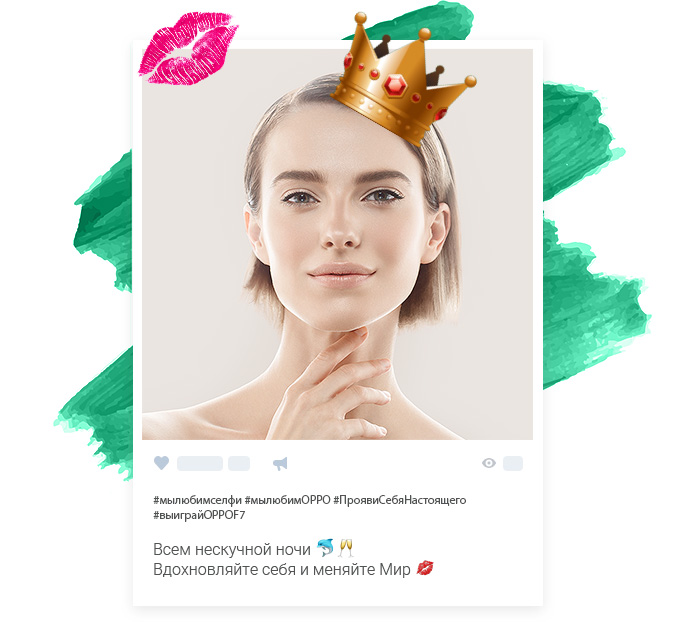
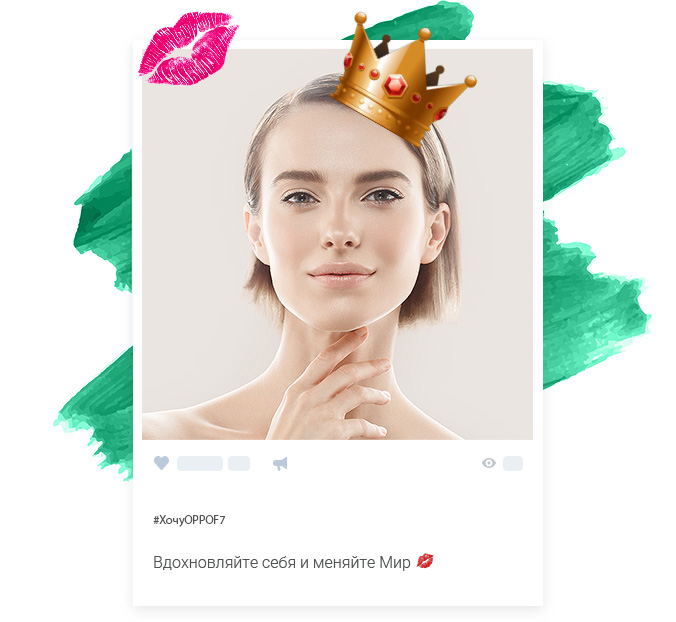
fix+auth

Changed region(s): [[0.2175, 0.7942, 0.6834, 0.9469]]

diff --git a/index.html b/index.html
@@ -117,12 +117,14 @@
                                 <img src="images/contest-menu.png" alt="" />
                                 <span>Придумай креативный текст</span>
                                 <img src="images/contest-menu.png" alt="" />
-                                <span>Поделись ВКонтакте</span>
+                                <span>Поделиться</span>
+                                <img src="images/contest-menu.png" alt="" />
+                                <span>Спасибо!</span>
                             </div>
                             <div class="contest-theme">
                                 <div class="contest-theme-text"><strong>Выбери</strong> то, что ты любишь</div>
                                 <div class="contest-theme-list">
-                                    <div class="contest-theme-item" data-id="01" data-border="images/contest-photo-border-01.png" data-placeholder="Плейсхолдер для рубрики Спорт">
+                                    <div class="contest-theme-item" data-id="01" data-border="images/contest-photo-border-01.png" data-placeholder="Не представляешь себя без спорта? Расскажи о своих достижениях: сколько мячей за сезон забиваешь, какие упражнения делаешь в спортзале, какие высоты планируешь покорить и как новый OPPO F7 поможет тебе в этом!">
                                         <div class="contest-theme-item-icon"><svg version="1.1" id="Слой_1" xmlns="http://www.w3.org/2000/svg" xmlns:xlink="http://www.w3.org/1999/xlink" x="0px" y="0px" viewBox="0 0 48 48" style="enable-background:new 0 0 48 48;" xml:space="preserve"><style type="text/css">.st0{fill:none;stroke:#000000;stroke-width:2;stroke-miterlimit:10;}</style><g><circle class="st0" cx="24" cy="5" r="4"/><path class="st0" d="M42,15.7c-0.2-1-1.1-1.7-2.1-1.7H8c-1.2,0-2.2,1.1-2,2.3c0.2,1,1.1,1.7,2.1,1.7H18v26.9c0,1,0.7,1.9,1.7,2.1 c1.3,0.2,2.3-0.8,2.3-2V34c0-1.1,0.9-2,2-2c1.1,0,2,0.9,2,2v10.9c0,1,0.7,1.9,1.7,2.1c1.3,0.2,2.3-0.8,2.3-2V18h10 C41.2,18,42.2,16.9,42,15.7z"/><path class="st0" d="M39.5,17.9c0.7,1.2,2,2.1,3.5,2.1c2.2,0,4-1.8,4-4c0-2.2-1.8-4-4-4c-1.5,0-2.8,0.8-3.5,2.1"/><path class="st0" d="M8.5,14.1C7.8,12.8,6.5,12,5,12c-2.2,0-4,1.8-4,4c0,2.2,1.8,4,4,4c1.5,0,2.8-0.8,3.5-2.1"/><line class="st0" x1="5" y1="12" x2="5" y2="0"/><line class="st0" x1="43" y1="12" x2="43" y2="0"/></g></svg></div>
                                         <div class="contest-theme-item-title">Спорт</div>
                                         <div class="contest-theme-item-plus"></div>
@@ -132,57 +134,57 @@
                                         <div class="contest-theme-item-title">Путешествия</div>
                                         <div class="contest-theme-item-plus"></div>
                                     </div>
-                                    <div class="contest-theme-item" data-id="03" data-border="images/contest-photo-border-03.png" data-placeholder="Плейсхолдер для рубрики Мода">
+                                    <div class="contest-theme-item" data-id="03" data-border="images/contest-photo-border-03.png" data-placeholder="Следишь за последними трендами сезона и без труда можешь подобрать идеальный наряд? Твой уникальный имидж постоянно восхищает окружающих? Поделись своими секретами с друзьями и расскажи, как новый OPPO F7 поможет тебе подчеркнуть свой стиль.">
                                         <div class="contest-theme-item-icon"><svg xmlns="http://www.w3.org/2000/svg" viewBox="0 0 64 64" aria-labelledby="title" aria-describedby="desc" role="img" xmlns:xlink="http://www.w3.org/1999/xlink"><path data-name="layer2" fill="none" stroke="#202020" stroke-miterlimit="10" stroke-width="2" d="M34 30.5L26 53l-10-4 7.3-19.5m8.9 6.4L38 53l10-4-8-20" stroke-linejoin="round" stroke-linecap="round"></path> <path data-name="layer1" d="M25.4 18.3S17.7 11 4 11C-.5 23.2 4 35 4 35s14.9-2.5 22-7m12.6-9.7S46.3 11 60 11c4.5 12.2 0 24 0 24s-14.9-2.5-22-7" fill="none" stroke="#202020" stroke-miterlimit="10" stroke-width="2" stroke-linejoin="round" stroke-linecap="round"></path> <circle data-name="layer1" cx="32" cy="22.8" r="8" fill="none" stroke="#202020" stroke-miterlimit="10" stroke-width="2" stroke-linejoin="round" stroke-linecap="round"></circle></svg></div>
                                         <div class="contest-theme-item-title">Мода</div>
                                         <div class="contest-theme-item-plus"></div>
                                     </div>
-                                    <div class="contest-theme-item" data-id="04" data-border="images/contest-photo-border-04.png" data-placeholder="Плейсхолдер для рубрики Еда">
+                                    <div class="contest-theme-item" data-id="04" data-border="images/contest-photo-border-04.png" data-placeholder="Для кого-то еда — возможность утолить голод, а для кого-то — способ самовыражения. Поделись своим любимым рецептом или самым необычным блюдом и не забудь пофантазировать, как новенький OPPO F7 поможет тебе в кулинарном деле!">
                                         <div class="contest-theme-item-icon"><svg xmlns="http://www.w3.org/2000/svg" viewBox="0 0 64 64" aria-labelledby="title" aria-describedby="desc" role="img" xmlns:xlink="http://www.w3.org/1999/xlink"><circle data-name="layer2" cx="32.7" cy="33" r="19" fill="none" stroke="#202020" stroke-linecap="round" stroke-linejoin="round" stroke-width="2"></circle> <circle data-name="layer2" cx="32.7" cy="33" r="11" fill="none" stroke="#202020" stroke-linecap="round" stroke-linejoin="round" stroke-width="2"></circle> <path data-name="layer1" d="M61.7 34.2V48a2 2 0 0 1-2 2 2 2 0 0 1-2-2V34.1M6.7 12v9.5" fill="none" stroke="#202020" stroke-linecap="round" stroke-linejoin="round" stroke-width="2"></path> <path data-name="layer1" d="M61.7 34.2V12a6.3 6.3 0 0 0-6.3 6.3V31a3.2 3.2 0 0 0 3.2 3.2zm-50.5-9.5L10.5 12H2.9l-.6 12.7a3.5 3.5 0 0 0 2.4 3.5V48a2 2 0 1 0 4 0V28.1a3.5 3.5 0 0 0 2.5-3.4z" fill="none" stroke="#202020" stroke-linecap="round" stroke-linejoin="round" stroke-width="2"></path></svg></div>
                                         <div class="contest-theme-item-title">Еда</div>
                                         <div class="contest-theme-item-plus"></div>
                                     </div>
-                                    <div class="contest-theme-item" data-id="05" data-border="images/contest-photo-border-05.png" data-placeholder="Плейсхолдер для рубрики Искусство">
+                                    <div class="contest-theme-item" data-id="05" data-border="images/contest-photo-border-05.png" data-placeholder="Если искусство для тебя не просто поход на выставку суперпопулярного художника, значит тебе есть что рассказать! Напиши о прекрасном и о том, как OPPO F7 поможет приблизиться к нему!">
                                         <div class="contest-theme-item-icon"><svg xmlns="http://www.w3.org/2000/svg" viewBox="0 0 64 64" aria-labelledby="title" aria-describedby="desc" role="img" xmlns:xlink="http://www.w3.org/1999/xlink"> <path data-name="layer1" fill="none" stroke="#202020" stroke-miterlimit="10" stroke-width="2" d="M2 14h60v48H2z" stroke-linejoin="round" stroke-linecap="round"></path> <path data-name="layer2" fill="none" stroke="#202020" stroke-miterlimit="10" stroke-width="2" d="M10 22h44v32H10z" stroke-linejoin="round" stroke-linecap="round"></path> <path data-name="layer1" fill="none" stroke="#202020" stroke-miterlimit="10" stroke-width="2" d="M16 14L32 2l16 12" stroke-linejoin="round" stroke-linecap="round"></path></svg></div>
                                         <div class="contest-theme-item-title">Искусство</div>
                                         <div class="contest-theme-item-plus"></div>
                                     </div>
-                                    <div class="contest-theme-item" data-id="06" data-border="images/contest-photo-border-06.png" data-placeholder="Плейсхолдер для рубрики Музыка">
+                                    <div class="contest-theme-item" data-id="06" data-border="images/contest-photo-border-06.png" data-placeholder="Ты разбираешься в музыке или даже создаешь её? Твой плейлист заряжен энергией и драйвом? Поделись своим увлечением с друзьями и расскажи, как новый OPPO F7 поможет ему заиграть новыми красками!">
                                         <div class="contest-theme-item-icon"><svg xmlns="http://www.w3.org/2000/svg" viewBox="0 0 64 64" aria-labelledby="title" aria-describedby="desc" role="img" xmlns:xlink="http://www.w3.org/1999/xlink"> <path data-name="layer1" d="M35 23.4A11.1 11.1 0 0 0 22 25a10 10 0 0 0-1.8 2.5c-1 1.7-2.7 4.4-6.5 4.5h-.9a12.7 12.7 0 0 0-7.1 3.5C.3 41.1.9 50.6 7.1 56.9s15.7 6.9 21.2 1.4a12.6 12.6 0 0 0 3.5-7 1.9 1.9 0 0 0 .1-.7 8.4 8.4 0 0 1 4.5-6.8A10 10 0 0 0 39 42a11.1 11.1 0 0 0 1.7-13" fill="none" stroke="#202020" stroke-miterlimit="10" stroke-width="2" stroke-linejoin="round" stroke-linecap="round"></path> <path data-name="layer2" d="M20.2 38.1l34.1-34c1.6-1.6 2.7-3 4.2-1.4l2.8 2.8c1.6 1.6.1 2.7-1.4 4.2L25.8 43.8" fill="none" stroke="#202020" stroke-miterlimit="10" stroke-width="2" stroke-linejoin="round" stroke-linecap="round"></path> <circle data-name="layer1" cx="19.9" cy="44.1" r="6" transform="rotate(-45 19.892 44.16)" fill="none" stroke="#202020" stroke-miterlimit="10" stroke-width="2" stroke-linejoin="round" stroke-linecap="round"></circle> <path data-name="layer2" fill="none" stroke="#202020" stroke-miterlimit="10" stroke-width="2" d="M59.9 4.1l-47 47" stroke-linejoin="round" stroke-linecap="round"></path> <path data-name="layer1" fill="none" stroke="#202020" stroke-miterlimit="10" stroke-width="2" d="M9.4 47.6l7 7" stroke-linejoin="round" stroke-linecap="round"></path></svg></div>
                                         <div class="contest-theme-item-title">Музыка</div>
                                         <div class="contest-theme-item-plus"></div>
                                     </div>
-                                    <div class="contest-theme-item" data-id="07" data-border="images/contest-photo-border-07.png" data-placeholder="Плейсхолдер для рубрики Бизнес</">
+                                    <div class="contest-theme-item" data-id="07" data-border="images/contest-photo-border-07.png" data-placeholder="Бизнесмен — это звучит гордо! Это человек, уверенный в себе и своих силах, способный рисковать и принимать волевые решения. Успешным может стать каждый, но для этого нужно много работать. Расскажи о своем подходе к работе и о том, как OPPO F7 поможет тебе добиться успеха!">
                                         <div class="contest-theme-item-icon"><svg version="1.1" id="Слой_1" xmlns="http://www.w3.org/2000/svg" xmlns:xlink="http://www.w3.org/1999/xlink" x="0px" y="0px" viewBox="0 0 48 48" style="enable-background:new 0 0 48 48;" xml:space="preserve"><style type="text/css">.st0{fill:none;stroke:#202020;stroke-width:2;stroke-linecap:round;stroke-linejoin:round;stroke-miterlimit:10;}</style><path class="st0" d="M16.3,12.6V9.4c0-3.4,2.7-6.1,6.1-6.1h3.1c3.4,0,6.1,2.7,6.1,6.1v3"/><path class="st0" d="M27.1,32.4H47V15.6c0-1.7-1.4-3.1-3.1-3.1H4.1c-1.7,0-3.1,1.4-3.1,3.1v16.9h19.9 M45.5,32.4v12.3H2.5V32.4"/><path class="st0" d="M20.9,29.4h6.1v6.1h-6.1V29.4z"/></svg></div>
                                         <div class="contest-theme-item-title">Бизнес</div>
                                         <div class="contest-theme-item-plus"></div>
                                     </div>
-                                    <div class="contest-theme-item" data-id="08" data-border="images/contest-photo-border-08.png" data-placeholder="Плейсхолдер для рубрики Современные технологии">
+                                    <div class="contest-theme-item" data-id="08" data-border="images/contest-photo-border-08.png" data-placeholder="Поразительно, как всего за несколько лет технологии успевают кардинально изменить жизнь. Чтобы не отстать от её безудержного темпа, желательно иметь только самые мощные и надежные гаджеты! Расскажи, какие функции OPPO F7 помогут тебе быть в курсе последних новостей из мира техники!">
                                         <div class="contest-theme-item-icon"><svg xmlns="http://www.w3.org/2000/svg" viewBox="0 0 64 64" aria-labelledby="title" aria-describedby="desc" role="img" xmlns:xlink="http://www.w3.org/1999/xlink"> <circle data-name="layer1" cx="32" cy="22" r="4" fill="none" stroke="#202020" stroke-linecap="round" stroke-linejoin="round" stroke-width="2"></circle> <path data-name="layer2" d="M22 26h-3.1a2.9 2.9 0 0 0-2.9 2.9v12.2a2.9 2.9 0 0 1-2.4 2.9h-2.7A2.9 2.9 0 0 0 8 46.9V58h8m26-32h3.1a2.9 2.9 0 0 1 2.9 2.9v12.2a2.9 2.9 0 0 0 2.4 2.9H53a2.9 2.9 0 0 1 3 2.9V58h-8m-20 0h8m6-6V19.8C42 8.9 32 2 32 2S22 8.9 22 19.8V52" fill="none" stroke="#202020" stroke-linecap="round" stroke-linejoin="round" stroke-width="2"></path> <path data-name="layer1" d="M28 62v-4a6 6 0 1 0-12 0v4zm20 0v-4a6 6 0 1 0-12 0v4z" fill="none" stroke="#202020" stroke-linecap="round" stroke-linejoin="round" stroke-width="2"></path></svg></div>
                                         <div class="contest-theme-item-title">Современные технологии</div>
                                         <div class="contest-theme-item-plus"></div>
                                     </div>
-                                    <div class="contest-theme-item" data-id="09" data-border="images/contest-photo-border-09.png" data-placeholder="Плейсхолдер для рубрики Вечеринки">
+                                    <div class="contest-theme-item" data-id="09" data-border="images/contest-photo-border-09.png" data-placeholder="Взрывной танцпол или уютный квартирник? Безудержное веселье с толпой друзей или тихий вечер вдвоем? Главное, чтобы было ярко и интересно. Опиши вечеринку своей мечты и пофантазируй, как OPPO F7 поможет тебе стать её звездой!">
                                         <div class="contest-theme-item-icon"><svg xmlns="http://www.w3.org/2000/svg" viewBox="0 0 64 64" aria-labelledby="title" aria-describedby="desc" role="img" xmlns:xlink="http://www.w3.org/1999/xlink"> <path data-name="layer2" fill="none" stroke="#202020" stroke-linecap="round" stroke-linejoin="round" stroke-width="2" d="M26.5 34v28m-10 0h20"></path> <path data-name="layer1" d="M33.5 12a11 11 0 1 1 7 11.3" fill="none" stroke="#202020" stroke-linecap="round" stroke-linejoin="round" stroke-width="2"></path> <path data-name="layer2" d="M44.1 18a18.9 18.9 0 0 0 .4-4v-2h-36v2a18.9 18.9 0 0 0 .4 4" fill="none" stroke="#202020" stroke-linecap="round" stroke-linejoin="round" stroke-width="2"></path> <path data-name="layer1" d="M8.9 18c.8 3.6 2.8 5.3 5.6 6s5 2.8 5.4 4.8 1.4 5.2 6.6 5.2c5.2 0 6.2-3.3 6.7-5.3s1.7-3.9 5.4-4.8 4.8-2.4 5.6-6z" fill="none" stroke="#202020" stroke-linecap="round" stroke-linejoin="round" stroke-width="2"></path></svg></div>
                                         <div class="contest-theme-item-title">Вечеринки</div>
                                         <div class="contest-theme-item-plus"></div>
                                     </div>
-                                    <div class="contest-theme-item" data-id="10" data-border="images/contest-photo-border-10.png" data-placeholder="Плейсхолдер для рубрики Фотография">
+                                    <div class="contest-theme-item" data-id="10" data-border="images/contest-photo-border-10.png" data-placeholder="Фотография — это удивительная возможность запечатлеть события, людей, окружающий мир. Это искусство, доступное каждому. Расскажи о том, что любишь фотографировать ты и как OPPO F7 поможет тебе стать профи в этом деле!">
                                         <div class="contest-theme-item-icon"><svg xmlns="http://www.w3.org/2000/svg" viewBox="0 0 64 64" aria-labelledby="title" aria-describedby="desc" role="img" xmlns:xlink="http://www.w3.org/1999/xlink"> <path data-name="layer2" d="M59 17H46.6L40 9H24l-6.6 8H5a3 3 0 0 0-3 3v30a3 3 0 0 0 3 3h54a3 3 0 0 0 3-3V20a3 3 0 0 0-3-3z" fill="none" stroke="#202020" stroke-miterlimit="10" stroke-width="2" stroke-linejoin="round" stroke-linecap="round"></path> <circle data-name="layer1" cx="32" cy="33" r="14" fill="none" stroke="#202020" stroke-miterlimit="10" stroke-width="2" stroke-linejoin="round" stroke-linecap="round"></circle> <circle data-name="layer1" cx="54" cy="25" r="1" fill="none" stroke="#202020" stroke-miterlimit="10" stroke-width="2" stroke-linejoin="round" stroke-linecap="round"></circle> <circle data-name="layer1" cx="32" cy="33" r="6" fill="none" stroke="#202020" stroke-miterlimit="10" stroke-width="2" stroke-linejoin="round" stroke-linecap="round"></circle></svg></div>
                                         <div class="contest-theme-item-title">Фотография</div>
                                         <div class="contest-theme-item-plus"></div>
                                     </div>
-                                    <div class="contest-theme-item" data-id="11" data-border="images/contest-photo-border-11.png" data-placeholder="Плейсхолдер для рубрики Автомобили">
+                                    <div class="contest-theme-item" data-id="11" data-border="images/contest-photo-border-11.png" data-placeholder="Автомобиль для тебя больше, чем средство передвижения? Любишь скорость и ценишь комфорт? Расскажи, чем должен отличаться топовый автомобиль и чем он похож на OPPO F7!">
                                         <div class="contest-theme-item-icon"><svg viewBox="0 0 64 64" xmlns="http://www.w3.org/2000/svg" aria-labelledby="title" aria-describedby="desc" role="img" xmlns:xlink="http://www.w3.org/1999/xlink"> <path stroke-width="2" stroke-linejoin="round" stroke-linecap="round" stroke="#202020" fill="none" d="M9.011 41H3s.023-4.814.368-8.32a37.433 37.433 0 0 1 4.369-12.12A3.908 3.908 0 0 1 10.444 19H36.27l8.856 8s10.722 1.5 13.688 1.728c3.454.271 3.176 2.894 3.176 2.894s-.364 3.917-.624 5.841S60.047 41 58.357 41H55m-12 0H21.011m24.131-14.006H4.867" data-name="layer2"></path> <circle stroke-width="2" stroke-linejoin="round" stroke-linecap="round" stroke="#202020" fill="none" r="6" cy="41" cx="15.011" data-name="layer1"></circle> <circle stroke-width="2" stroke-linejoin="round" stroke-linecap="round" stroke="#202020" fill="none" r="6" cy="40.999" cx="49.002" data-name="layer1"></circle></svg></div>
                                         <div class="contest-theme-item-title">Автомобили</div>
                                         <div class="contest-theme-item-plus"></div>
                                     </div>
-                                    <div class="contest-theme-item" data-id="12" data-border="images/contest-photo-border-12.png" data-placeholder="Плейсхолдер для рубрики Животные">
+                                    <div class="contest-theme-item" data-id="12" data-border="images/contest-photo-border-12.png" data-placeholder="Питомцы радуют нас и делают жизнь яркой и разнообразной. Они поддерживают нас в трудные минуты и понимают без слов. Поделись с друзьями своей историей о своих питомцах и расскажи, как OPPO F7 поможет тебе общаться с ними!">
                                         <div class="contest-theme-item-icon"><svg xmlns="http://www.w3.org/2000/svg" viewBox="0 0 64 64" aria-labelledby="title" aria-describedby="desc" role="img" xmlns:xlink="http://www.w3.org/1999/xlink"> <path data-name="layer2" d="M58 18c0 5.2-3.5 7.4-8 8.2M62 36H50m-1.2 8C54 45.2 59.9 48 60 56M6 18c0 5.2 3.5 7.4 8 8.2M2 36h12m1.2 8C10 45.2 4 48 4 56" fill="none" stroke="#202020" stroke-linecap="round" stroke-linejoin="round" stroke-width="2"></path> <path data-name="layer1" d="M18 22.6v-2a8.6 8.6 0 0 1 8.6-8.6h10.8a8.6 8.6 0 0 1 8.6 8.6v1.9M24.2 12.4a8 8 0 0 1 15.7 0" fill="none" stroke="#202020" stroke-linecap="round" stroke-linejoin="round" stroke-width="2"></path> <path data-name="layer1" d="M43.3 22H20.7a6.7 6.7 0 0 0-6.7 6.7v7.8c.1 10.6 6 19.3 18 21.5 12-2.1 17.9-11 18-21.6v-7.7a6.7 6.7 0 0 0-6.7-6.7zM32 22v36" fill="none" stroke="#202020" stroke-linecap="round" stroke-linejoin="round" stroke-width="2"></path></svg></div>
                                         <div class="contest-theme-item-title">Животные</div>
                                         <div class="contest-theme-item-plus"></div>
                                     </div>
-                                    <div class="contest-theme-item" data-id="13" data-border="images/contest-photo-border-13.png" data-placeholder="Плейсхолдер для рубрики Знаменитости">
+                                    <div class="contest-theme-item" data-id="13" data-border="images/contest-photo-border-13.png" data-placeholder="Тебе наверняка хоть раз хотелось стать знаменитостью, да? Сегодня существует миллион способов прославиться, и один из них — это… Расскажи, как OPPO F7 поможет тебе стать ближе к звёздам!">
                                         <div class="contest-theme-item-icon"><svg version="1.1" id="Слой_1" xmlns="http://www.w3.org/2000/svg" xmlns:xlink="http://www.w3.org/1999/xlink" x="0px" y="0px" viewBox="0 0 48 48" style="enable-background:new 0 0 48 48;" xml:space="preserve"> <style type="text/css">.st0{fill:none;} </style> <g><g> <path class="st0" d="M21.4,18.5c4.3,0,7.9-3.5,7.9-7.9s-3.5-7.9-7.9-7.9s-7.9,3.5-7.9,7.9S17.1,18.5,21.4,18.5z"/> <path d="M21.4,21.1c5.8,0,10.5-4.7,10.5-10.5S27.2,0.2,21.4,0.2S10.9,4.9,10.9,10.6S15.6,21.1,21.4,21.1z M21.4,2.8 c4.3,0,7.9,3.5,7.9,7.9s-3.5,7.9-7.9,7.9s-7.9-3.5-7.9-7.9S17.1,2.8,21.4,2.8z"/> <path d="M32.9,25.1l1.1,4.6l2.5-0.6l-1.6-6.5h-9.8L25,23.7c0,0-0.1,1-0.7,2c-0.7,1.2-1.6,1.8-2.9,1.8c-2.9,0-3.5-3.5-3.5-3.7 l-0.2-1.1H7.9L3.3,40.7l2.5,0.6l4.1-16.2h5.7c0.7,2.4,2.5,4.8,5.8,4.8c3.2,0,5.1-2.5,5.8-4.8H32.9z"/> </g> <polygon points="44.7,37.4 38.6,36.5 35.9,31 33.2,36.5 27.1,37.4 31.5,41.7 30.5,47.8 35.9,45 41.4,47.8 40.3,41.7"/></g></svg></div>
                                         <div class="contest-theme-item-title">Знаменитости</div>
                                         <div class="contest-theme-item-plus"></div>
@@ -205,7 +207,9 @@
                                 <img src="images/contest-menu.png" alt="" />
                                 <span>Придумай креативный текст</span>
                                 <img src="images/contest-menu.png" alt="" />
-                                <span>Поделись ВКонтакте</span>
+                                <span>Поделиться</span>
+                                <img src="images/contest-menu.png" alt="" />
+                                <span>Спасибо!</span>
                             </div>
                             <div class="contest-photo">
                                 <div class="contest-camera">
@@ -241,7 +245,9 @@
                                 <img src="images/contest-menu.png" alt="" />
                                 <span class="active">Придумай креативный текст</span>
                                 <img src="images/contest-menu.png" alt="" />
-                                <span>Поделись ВКонтакте</span>
+                                <span>Поделиться</span>
+                                <img src="images/contest-menu.png" alt="" />
+                                <span>Спасибо!</span>
                             </div>
                             <div class="contest-text-wrap">
                                 <div class="contest-text-photo">
@@ -264,9 +270,29 @@
                                 <img src="images/contest-menu.png" alt="" />
                                 <span>Загрузи своё фото</span>
                                 <img src="images/contest-menu.png" alt="" />
+                                <span class="back contest-menu-back-from-auth">Придумай креативный текст</span>
+                                <img src="images/contest-menu.png" alt="" />
+                                <span class="active">Поделиться</span>
+                                <img src="images/contest-menu.png" alt="" />
+                                <span>Спасибо!</span>
+                            </div>
+                            <div class="contest-auth">
+                                <div class="contest-auth-text">Для участия в конкурсе<br /> <strong>авторизуйся</strong> с помощью<br /> сервиса ВКонтакте</div>
+                                <a href="#" class="contest-auth-link">Авторизоваться</a>
+                            </div>
+                        </div>
+
+                        <div class="contest-step">
+                            <div class="contest-menu">
+                                <span>Выбери то, что ты любишь</span>
+                                <img src="images/contest-menu.png" alt="" />
+                                <span>Загрузи своё фото</span>
+                                <img src="images/contest-menu.png" alt="" />
                                 <span>Придумай креативный текст</span>
                                 <img src="images/contest-menu.png" alt="" />
-                                <span class="active">Поделись ВКонтакте</span>
+                                <span>Поделиться</span>
+                                <img src="images/contest-menu.png" alt="" />
+                                <span class="active">Спасибо!</span>
                             </div>
                             <div class="contest-share">
                                 <div class="contest-share-text">
@@ -740,13 +766,13 @@
                     <div class="gifts-subtitle">Скоро вы узнаете где купить OPPO&nbsp;F7!</div>
                     <div class="gifts-text">А пока ищите смартфоны OPPO&nbsp;F5/F5&nbsp;Youth/A83 в&nbsp;магазинах наших партнеров:</div>
                     <div class="gifts-partners">
-                        <div class="gifts-partner"><a href="https://euroset.ru/catalog/phones/smartphones/?arrFilter_pf%5BPRODUCER%5D%5B%5D=16541154&singleProducerName=OPPO&sort=0§ion=smartphones&utm_source=hellocampaign&utm_medium=oppo" target="_blank"><img src="images/gifts-logo-1.png" alt="" /></div>
+                        <div class="gifts-partner"><a href="https://euroset.ru/catalog/phones/smartphones/?arrFilter_pf%5BPRODUCER%5D%5B%5D=16541154&singleProducerName=OPPO&sort=0§ion=smartphones&utm_source=hellocampaign&utm_medium=oppo" target="_blank"><img src="images/gifts-logo-1.png" alt="" /></a></div>
                         <div class="gifts-partner-sep"></div>
-                        <div class="gifts-partner"><a href="https://www.mvideo.ru/smartfony-i-svyaz/smartfony-205/f/brand=oppo?utm_source=hellocampaign&utm_medium=oppo" target="_blank"><img src="images/gifts-logo-2.png" alt="" /></div>
+                        <div class="gifts-partner"><a href="https://www.mvideo.ru/smartfony-i-svyaz/smartfony-205/f/brand=oppo?utm_source=hellocampaign&utm_medium=oppo" target="_blank"><img src="images/gifts-logo-2.png" alt="" /></a></div>
                         <div class="gifts-partner-sep"></div>
-                        <div class="gifts-partner"><a href="https://moscow.shop.megafon.ru/mobile/oppo.html?noarchive=&utm_source=hellocampaign&utm_medium=oppo" target="_blank"><img src="images/gifts-logo-3.png" alt="" /></div>
+                        <div class="gifts-partner"><a href="https://moscow.shop.megafon.ru/mobile/oppo.html?noarchive=&utm_source=hellocampaign&utm_medium=oppo" target="_blank"><img src="images/gifts-logo-3.png" alt="" /></a></div>
                         <div class="gifts-partner-sep"></div>
-                        <div class="gifts-partner"><a href="https://www.svyaznoy.ru/catalog/phone/225/oppo?utm_source=hellocampaign&utm_medium=oppo" target="_blank"><img src="images/gifts-logo-4.png" alt="" /></div>
+                        <div class="gifts-partner"><a href="https://www.svyaznoy.ru/catalog/phone/225/oppo?utm_source=hellocampaign&utm_medium=oppo" target="_blank"><img src="images/gifts-logo-4.png" alt="" /></a></div>
                     </div>
                     <div class="gifts-photo"><img src="images/gifts-photo-2.png" alt="" /></div>
                 </div>
@@ -755,10 +781,10 @@
 
             <footer>
                 <div class="container">
-                    <div class="footer-logo"></div>
+                    <div class="footer-logo"><a href="http://www.oppo.com/ru/index.html?utm_source=hellocampaign&utm_medium=button" target="_blank"></a></div>
 
                     <div class="footer-links">
-                        <p><a href="http://www.oppo.com/ru/?utm_source=hellocampaign" target="_blank">Официальный сайт OPPO Россия</a><br /> <a href="http://oppo.ru/?utm_source=hellocampaign" target="_blank">Новый OPPO F7 c функцией Artificial Intelligence</a></p>
+                        <p><a href="http://www.oppo.com/ru/?utm_source=hellocampaign" target="_blank">Официальный сайт OPPO Россия</a><br /> <a href="http://oppo.ru/?utm_source=hellocampaign" target="_blank">Официальный интернет-магазин OPPO</a></p>
                         <p><a href="rules.html" target="_blank">Правила проведения и участия в конкурсе</a></p>
                     </div>
 

diff --git a/css/styles.css b/css/styles.css
@@ -95,7 +95,8 @@ nav ul li a:hover {opacity:.8}
 .contest-step-theme .contest-list-inner {left:-100%}
 .contest-step-photo .contest-list-inner {left:-200%}
 .contest-step-text .contest-list-inner {left:-300%}
-.contest-step-share .contest-list-inner {left:-400%}
+.contest-step-auth .contest-list-inner {left:-400%}
+.contest-step-share .contest-list-inner {left:-500%}
 .contest-step {display:inline-block; vertical-align:top; width:100%; font-size:16px; line-height:25px; letter-spacing:0; white-space:normal; position:relative}
 
 @media screen and (max-width:1199px) {
@@ -131,7 +132,8 @@ nav ul li a:hover {opacity:.8}
 @media screen and (max-width:1199px) {
     .contest-menu {white-space:nowrap; text-align:left; padding:42px 35px 0 35px}
     .contest-step-text .contest-menu {left:-204px}
-    .contest-step-share .contest-menu {left:-404px}
+    .contest-step-auth .contest-menu {left:-404px}
+    .contest-step-share .contest-menu {left:-604px}
 }
 
 .contest-theme {width:1190px; height:570px; margin:153px auto 0 auto; background:url(../images/contest-theme.png); position:relative}
@@ -245,6 +247,18 @@ nav ul li a:hover {opacity:.8}
     .contest-camera-btn {top:430px}
 }
 
+.contest-auth {width:359px; height:740px; position:relative; background:url(../images/contest-auth.png); margin:117px auto 0 auto}
+.contest-auth::before {content:""; display:block; width:449px; height:845px; position:absolute; left:-17px; top:0; background:url(../images/contest-auth-shadow.png)}
+.contest-auth-text {position:absolute; left:-392px; top:40px; width:439px; height:213px; padding:53px 0 0 70px; background:url(../images/contest-auth-text.png); color:#505354; font-size:30px; line-height:40px}
+.contest-auth-text strong {color:#363636; font-weight:bold}
+.contest-auth-link {display:block; position:absolute; left:66px; top:440px; width:230px; height:60px; background:#fff; text-decoration:none; text-align:center; font-size:20px; line-height:60px; color:#5281b9}
+.contest-auth-link:hover {opacity:.8}
+
+@media screen and (max-width:1199px) {
+    .contest-auth {margin:111px auto 105px auto}
+    .contest-auth-text {left:-55px; top:-80px; width:349px; height:211px; padding:55px 0 0 75px; background:url(../images/contest-auth-text-mobile.png); font-size:25px; line-height:37px}
+}
+
 .contest-text-wrap {position:relative; width:686px; height:896px; margin:34px auto 0 auto; background:url(../images/contest-text.png)}
 .contest-text-wrap::before {content:""; display:block; position:absolute; left:-15px; top:0; width:772px; height:1001px; background:url(../images/contest-text-shadow.png)}
 .contest-text-wrap::after {content:""; display:block; position:absolute; left:-15px; top:0; width:772px; height:200px; background:url(../images/contest-text-mask.png)}
@@ -256,7 +270,7 @@ nav ul li a:hover {opacity:.8}
 .contest-text-header-inner {display:table-cell; vertical-align:middle; height:140px}
 .contest-text-tags {font-size:14px; color:#2b5a9a; margin:0 auto; width:560px; padding:39px 0 25px 0; position:relative}
 .contest-text-textarea {margin:0 auto; width:560px; position:relative}
-.contest-text-textarea textarea {border:none; font:25px/40px MyriadPro, sans-serif; color:#505354; vertical-align:top; margin:0; padding:0; width:100%; height:240px; box-sizing:border-box; outline:none; border-radius:0; background:#fff; -webkit-appearance:none; overflow:auto; resize:none}
+.contest-text-textarea textarea {border:none; font:20px/30px MyriadPro, sans-serif; color:#505354; vertical-align:top; margin:0; padding:0; width:100%; height:240px; box-sizing:border-box; outline:none; border-radius:0; background:#fff; -webkit-appearance:none; overflow:auto; resize:none}
 .contest-text-next {display:block; position:absolute; left:31px; top:703px; width:624px; height:120px; opacity:.25; color:#fff; text-decoration:none; background:#008859; text-align:center; font-size:18px; line-height:120px; border-radius:0 0 36px 36px; cursor:default; letter-spacing:1px; text-transform:uppercase; font-weight:bold}
 .contest-text-next::after {content:""; display:inline-block; vertical-align:middle; width:24px; height:10px; background:url(../images/contest-theme-item-next.png); margin:-2px 0 0 20px}
 .contest-text-next.active {opacity:1; cursor:pointer}
@@ -394,7 +408,8 @@ footer {border-top:1px solid #dadada; padding:0 0 58px 0}
     footer {padding:50px 0 48px 0}
 }
 
-.footer-logo {float:left; width:154px; height:25px; margin:60px 0 0 0; background:url(../images/footer-logo.png)}
+.footer-logo {float:left; width:154px; height:25px; margin:60px 0 0 0; background:url(../images/footer-logo.png); position:relative}
+.footer-logo a {display:block; position:absolute; left:0; top:0; right:0; bottom:0}
 .footer-links {float:left; margin:40px 0 0 247px; font-size:14px; line-height:20px}
 .footer-links p {margin:0; padding:20px 0 0 0}
 .footer-social {float:right; margin:59px 0 0 0}
@@ -435,6 +450,6 @@ footer {border-top:1px solid #dadada; padding:0 0 58px 0}
 .rules ol ol ol li::before {content:counter(point)'.'counter(subpoint)'.'counter(subsubpoint); counter-increment:subsubpoint 1}
 .rules ul {margin:0; padding:0; list-style:none; font-size:24px; line-height:25px; color:#363636}
 .rules li ul {font-size:16px; margin:37px 0 53px 0}
-.rules ol ul li::before {content:""; display:block; width:7px; height:7px; background:#505354; border-radius:50%; top:9px; left:0; counter-increment:none}
+.rules ol ul li::before {content:""; display:block; width:7px; height:7px; background:#505354; border-radius:50%; top:8px; left:0; counter-increment:none}
 .rules a {color:#008859; text-decoration:none}
 .rules a:hover {text-decoration:underline}

diff --git a/rules.html b/rules.html
@@ -156,10 +156,10 @@
 
             <footer>
                 <div class="container">
-                    <div class="footer-logo"></div>
+                    <div class="footer-logo"><a href="http://www.oppo.com/ru/index.html?utm_source=hellocampaign&utm_medium=button" target="_blank"></a></div>
 
                     <div class="footer-links">
-                        <p><a href="http://www.oppo.com/ru/?utm_source=hellocampaign" target="_blank">Официальный сайт OPPO Россия</a><br /> <a href="http://oppo.ru/?utm_source=hellocampaign" target="_blank">Новый OPPO F7 c функцией Artificial Intelligence</a></p>
+                        <p><a href="http://www.oppo.com/ru/?utm_source=hellocampaign" target="_blank">Официальный сайт OPPO Россия</a><br /> <a href="http://oppo.ru/?utm_source=hellocampaign" target="_blank">Официальный интернет-магазин OPPO</a></p>
                     </div>
 
                     <div class="footer-social">

diff --git a/js/tools.js b/js/tools.js
@@ -259,7 +259,7 @@ $(document).ready(function() {
     });
 
     $('.contest-text-next').click(function(e) {
-        $('.contest-list').removeClass('contest-step-text').addClass('contest-step-share');
+        $('.contest-list').removeClass('contest-step-text').addClass('contest-step-auth');
         e.preventDefault();
         // data to vk
         var curThemeID = $('.contest-theme-item.active').data('id');
@@ -281,6 +281,16 @@ $(document).ready(function() {
         }).done(function(data) {
             console.log(data.p);
         });
+    });
+
+    $('.contest-menu-back-from-auth').click(function() {
+        $('.contest-list').removeClass('contest-step-auth').addClass('contest-step-text');
+    });
+
+    $('.contest-auth-link').click(function(e) {
+        // auth to vk
+        $('.contest-list').removeClass('contest-step-auth').addClass('contest-step-share');
+        e.preventDefault();
     });
 
     $('.contest-photo-camera-field').click(function() {
